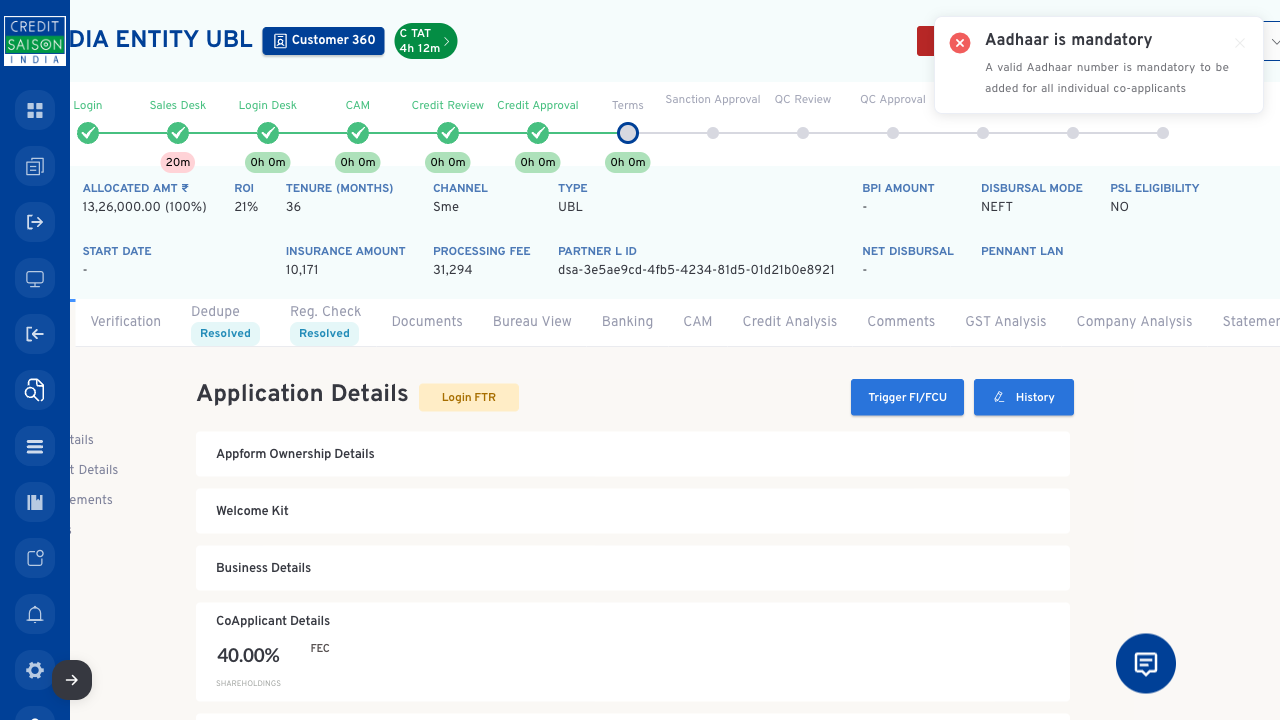
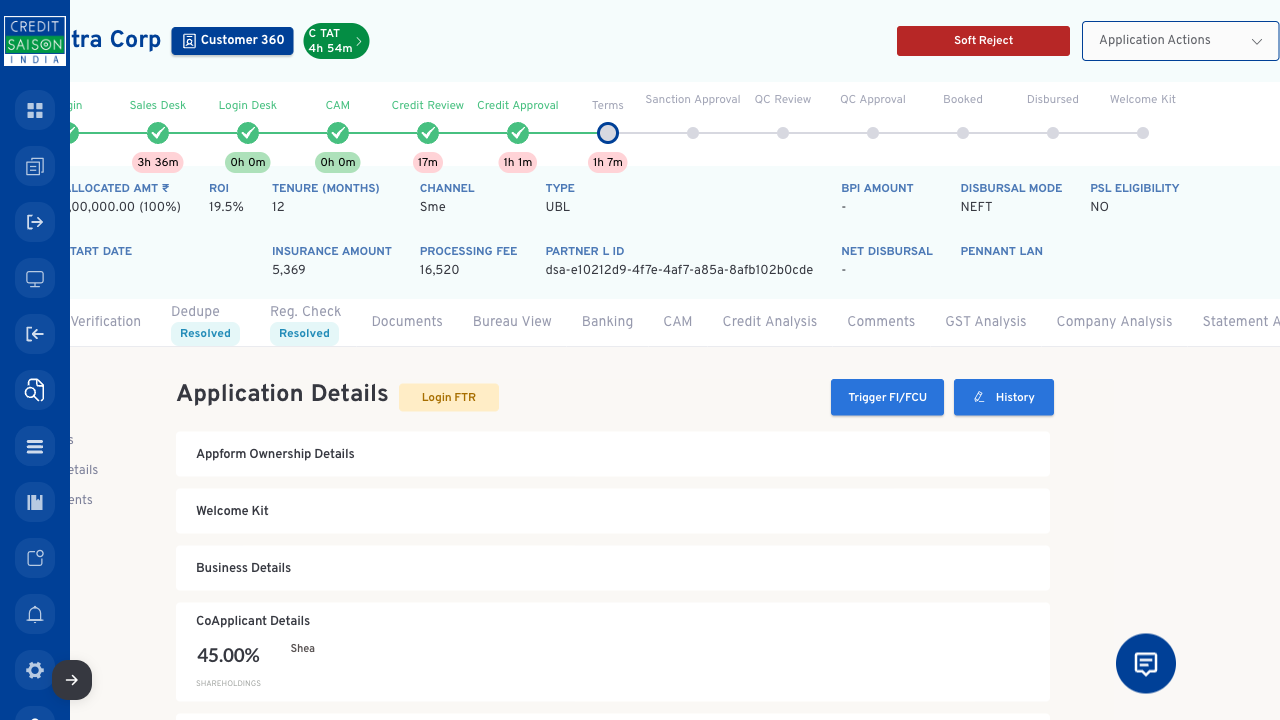
added. code for adding adhard
added. code for adding adhard

diff --git a/src/test/java/ui/pages/jarvis/AppFormPage/AppformTab/CoApplicantDetails.java b/src/test/java/ui/pages/jarvis/AppFormPage/AppformTab/CoApplicantDetails.java
@@ -1,0 +1,80 @@
+package ui.pages.jarvis.AppFormPage.AppformTab;
+
+import com.microsoft.playwright.Locator;
+import com.microsoft.playwright.Page;
+import com.microsoft.playwright.options.LoadState;
+import com.microsoft.playwright.options.WaitForSelectorState;
+import hooks.BaseTest;
+import ui.Utils.ScreenshotUtil;
+
+public class CoApplicantDetails extends BaseTest {
+
+    private Page page;
+
+    public CoApplicantDetails(Page page) {
+        this.page = page;
+    }
+
+    public void addAadhaarToCoApplicant(String aadhaarNumber, String scenarioName) {
+        log.info("Opening Co-Applicant Details section...");
+
+        // 1. Open Co-Applicant Details Section
+        Locator coApplicantSection = page.locator("xpath=//div[@id='Co-Applicant Details']//button").first();
+        coApplicantSection.scrollIntoViewIfNeeded();
+        coApplicantSection.click();
+
+        // Wait for modal
+        Locator activeModal = page.locator(".el-dialog__wrapper:visible").last();
+        activeModal.waitFor(new Locator.WaitForOptions().setState(WaitForSelectorState.VISIBLE).setTimeout(10000));
+
+        // 2. Click "ADD AADHAAR"
+        log.info("Clicking ADD AADHAAR button...");
+        Locator addAadhaarBtn = activeModal.locator("button.view-btn:has(span:has-text('ADD AADHAAR'))").first();
+        addAadhaarBtn.waitFor(new Locator.WaitForOptions().setState(WaitForSelectorState.VISIBLE).setTimeout(5000));
+        addAadhaarBtn.click();
+
+        // 3. Enter Aadhaar
+        log.info("Entering Aadhaar number...");
+        Locator addAadhaarModal = page.locator(".el-dialog__wrapper:visible").last();
+        Locator aadhaarInput = addAadhaarModal.locator("input[placeholder='Enter the Aadhaar']").first();
+        aadhaarInput.waitFor(new Locator.WaitForOptions().setState(WaitForSelectorState.VISIBLE).setTimeout(5000));
+        aadhaarInput.fill(aadhaarNumber);
+
+        // 4. Click Submit
+        log.info("Clicking Submit on Add Aadhaar modal...");
+        Locator submitBtn = addAadhaarModal.locator(".yes-button-aadhar button").first();
+        submitBtn.click();
+
+        // 5. Seed Aadhaar "Yes" Confirmation
+        log.info("Confirming Seed Aadhaar...");
+        Locator seedAadhaarModal = page.locator(".el-dialog__wrapper:visible").last();
+        Locator yesBtn = seedAadhaarModal.locator("button.accept-btn:has(span:has-text('Yes'))").first();
+        yesBtn.waitFor(new Locator.WaitForOptions().setState(WaitForSelectorState.VISIBLE).setTimeout(5000));
+        yesBtn.click();
+
+        // 6. Handle Dynamic Wait for Toast
+        log.info("Waiting dynamically for Aadhaar Added successfully toast...");
+        Locator toastMessage = page.locator(".el-notification:has-text('Aadhaar Added successfully')").first();
+
+        try {
+            // Wait up to 30 seconds for the backend service response (Playwright will proceed immediately once it appears)
+            toastMessage.waitFor(new Locator.WaitForOptions().setState(WaitForSelectorState.VISIBLE).setTimeout(30000));
+            log.info("Success popup verified! Message: 'Aadhaar Added successfully'");
+        } catch (Exception e) {
+            log.error("Failed to add Aadhaar or timeout waiting for success toast.");
+            ScreenshotUtil.saveScreenshot(page, "AadhaarAddError", scenarioName);
+            throw new AssertionError("Aadhaar addition failed or timed out: " + e.getMessage());
+        }
+
+        page.waitForLoadState(LoadState.NETWORKIDLE);
+        page.waitForTimeout(1000);
+
+        log.info("Successfully added Aadhaar and returned to the main Application Details page.");
+
+        page.waitForTimeout(3000);
+
+        log.info("Refreshing the page...");
+        page.reload(new Page.ReloadOptions().setTimeout(60000));
+        page.waitForLoadState(LoadState.NETWORKIDLE);
+    }
+}

diff --git a/src/test/java/ui/stepDefinitions/jarvis/ApplicationDetailsSteps.java b/src/test/java/ui/stepDefinitions/jarvis/ApplicationDetailsSteps.java
@@ -17,6 +17,7 @@ public class ApplicationDetailsSteps {
     private final Dedupe dedupe;
     private final EsignDocuments eSignPage;
     private final InsuranceDetails insurancePage;
+    private final CoApplicantDetails coApplicantDetails;
 
     public ApplicationDetailsSteps() {
         this.businessDetailsPage = new BusinessDetails(BaseTest.getPage());
@@ -26,6 +27,7 @@ public class ApplicationDetailsSteps {
         this.appFormOwnerShipDetails = new AppFormOwnerShipDetails(BaseTest.getPage());
         this.eSignPage = new EsignDocuments(BaseTest.getPage());
         this.insurancePage = new InsuranceDetails(BaseTest.getPage());
+        this.coApplicantDetails = new CoApplicantDetails(BaseTest.getPage());
     }
 
     @And("User updates the Business Details with the following data:")
@@ -71,6 +73,11 @@ public class ApplicationDetailsSteps {
     public void openInsuranceDetails(Map<String, String> data) {
         insurancePage.openInsuranceAndEdit();
         insurancePage.fillInsuranceAndSubmit(data, "Updating_Insurance_Details");
+    }
+
+    @And("User adds Aadhaar number {string} in Co-Applicant Details")
+    public void addAadhaarInCoApplicantDetails(String aadhaarNumber) {
+        coApplicantDetails.addAadhaarToCoApplicant(aadhaarNumber, "Adding_CoApplicant_Aadhaar");
     }
 
 }

diff --git a/src/test/java/ui/pages/jarvis/AppFormPage/AppformTab/InsuranceDetails.java b/src/test/java/ui/pages/jarvis/AppFormPage/AppformTab/InsuranceDetails.java
@@ -214,11 +214,21 @@ public class InsuranceDetails extends BaseTest {
         page.waitForTimeout(1000);
 
         log.info("Closing modal entirely...");
+        
+        // Click the top-right circle close button
+        Locator circleCloseBtn = page.locator("button.close-btn.is-circle").first();
+        if (circleCloseBtn.isVisible()) {
+            circleCloseBtn.click();
+            page.waitForTimeout(1000);
+        }
+
+        // Click outside or press Escape to dismiss the view-only modal
         page.mouse().click(10, 10);
         page.waitForTimeout(1000);
 
         if (page.locator(".el-dialog__wrapper:visible").last().isVisible()) {
             page.keyboard().press("Escape");
+            page.waitForTimeout(1000);
         }
         log.info("Successfully returned to the main Application Details page.");
     }

diff --git a/src/test/java/ui/stepDefinitions/jarvis/ApplicationSteps.java b/src/test/java/ui/stepDefinitions/jarvis/ApplicationSteps.java
@@ -18,7 +18,7 @@ public class ApplicationSteps extends BaseTest {
     public void openAppFromInJarvis(String searchType) throws InterruptedException {
         dashboardPage.navigateToApplicationTab();
 
-        applicationDashboardPage.searchByCriteria(searchType, "dsa-3e5ae9cd-4fb5-4234-81d5-01d21b0e8921");
+        applicationDashboardPage.searchByCriteria(searchType, "dsa-e10212d9-4f7e-4af7-a85a-8afb102b0cde");
 
         // Capture and store App ID before clicking open — needed for Allocation
         Thread.sleep(800);
